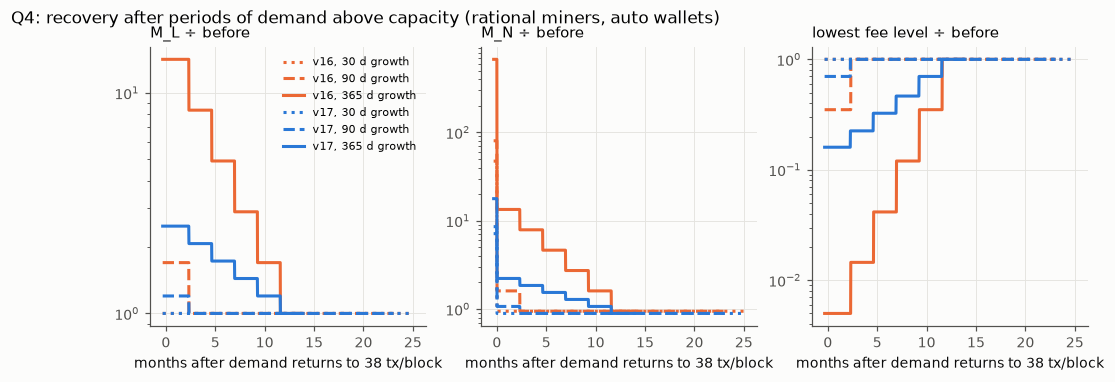
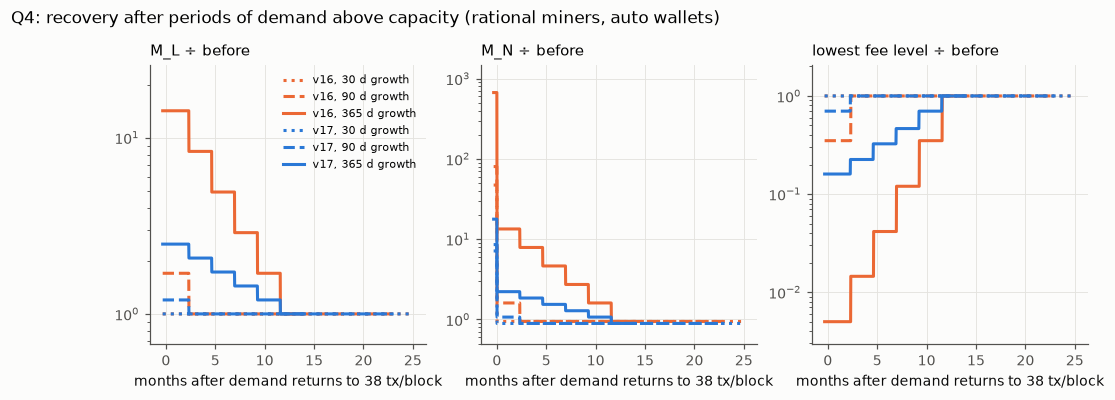
Figures: fix title collisions, axis crowding and clipped curves; key_numbers only on full runs

diff --git a/study/analysis/analyze.py b/study/analysis/analyze.py
@@ -11,7 +11,7 @@ import pandas as pd
 import matplotlib
 matplotlib.use("Agg")
 import matplotlib.pyplot as plt
-from matplotlib.ticker import NullLocator
+from matplotlib.ticker import FuncFormatter, LogLocator, NullLocator
 
 HERE = os.path.dirname(os.path.abspath(__file__))
 ROOT = os.path.dirname(HERE)
@@ -200,7 +200,7 @@ def q1():
             ax.axhline(y, color=INK2, lw=0.6, ls="-", alpha=0.4)
     axes[0].set_ylabel("bytes")
     axes[0].legend(ncol=2, fontsize=8)
-    fig.suptitle("Q1: growth with demand permanently above capacity (fill = miners ignore fees; auto/L0 = rational miners)", x=0.01, ha="left", fontsize=10)
+    fig.suptitle("Q1: growth with demand permanently above capacity (fill = miners ignore fees; auto/L0 = rational miners)", x=0.01, y=1.03, ha="left", fontsize=10)
     savefig(fig, "q1_growth.png")
 
     fig, ax = plt.subplots(figsize=(6.5, 3.6))
@@ -364,7 +364,7 @@ def q2():
     axes[0, 0].set_ylabel("mean wait of mined\nsurge txs, blocks")
     axes[1, 0].set_ylabel("share of surge txs\nmined within 1 day")
     axes[0, 0].legend(fontsize=8)
-    fig.suptitle(f"Q2: demand surges, wallets on auto priority, monerod pool limits ({ns} seeds)", x=0.01, ha="left")
+    fig.suptitle(f"Q2: demand surges, wallets on auto priority, monerod pool limits ({ns} seeds)", x=0.01, y=1.03, ha="left")
     savefig(fig, "q2_surge_wait.png")
 
     fig, axes = plt.subplots(1, 2, figsize=(10, 3.4), sharey=True)
@@ -399,7 +399,7 @@ def q2():
         ax.set_title(ttl, loc="left")
         ax.set_xlabel("days since surge start")
     axes[0].legend(fontsize=8)
-    fig.suptitle("Q2: a 20× surge lasting one day (shaded), auto priority, first seed", x=0.01, ha="left")
+    fig.suptitle("Q2: a 20× surge lasting one day (shaded), auto priority, first seed", x=0.01, y=1.03, ha="left")
     savefig(fig, "q2_surge_example.png")
 
 
@@ -502,10 +502,13 @@ def q3():
         axes[1].plot(ss.cum_spam_bytes / 1e9, ss.cum_spam_xmr, ls=ls, color=C[r], label=f"{r} {s}")
     axes[0].set_xscale("symlog", linthresh=10); axes[0].set_xlabel("XMR spent by the spammer"); axes[0].set_ylabel("M_L / initial M_L")
     axes[0].set_yscale("log"); axes[0].set_title("M_L raised vs XMR spent", loc="left")
+    for ax in axes:
+        lo, hi = ax.get_ylim()
+        ax.set_ylim(lo, hi * 1.6)
     axes[1].set_xscale("log"); axes[1].set_yscale("log"); axes[1].set_xlabel("GB of spam in the chain"); axes[1].set_ylabel("cumulative XMR spent")
     axes[1].set_title("Bloat: XMR spent vs GB added", loc="left")
     axes[0].legend(fontsize=7, ncol=1)
-    fig.suptitle("Q3: fee-paying spammer, 2-year campaigns (first seed)", x=0.01, ha="left")
+    fig.suptitle("Q3: fee-paying spammer, 2-year campaigns (first seed)", x=0.01, y=1.03, ha="left")
     savefig(fig, "q3_spam.png")
 
     m = load("q3d_miner")
@@ -565,8 +568,8 @@ def q3():
     axes[0].axvline(0.5, color=INK2, lw=0.8, alpha=0.5)
     axes[1].axvline(0.5, color=INK2, lw=0.8, alpha=0.5)
     axes[0].legend(fontsize=8)
-    axes[1].text(0.02, 0.02, "pad_max: v16 and v17 overlap (each padded block forfeits the 0.6 XMR reward)", transform=axes[1].transAxes, fontsize=7, color=INK2)
-    fig.suptitle(f"Q3d: malicious miner padding its blocks for one year ({nseeds(m)} seeds)", x=0.01, ha="left")
+    fig.text(0.01, -0.04, "pad_max: v16 and v17 overlap (each padded block forfeits the 0.6 XMR reward)", fontsize=7, color=INK2)
+    fig.suptitle(f"Q3d: malicious miner padding its blocks for one year ({nseeds(m)} seeds)", x=0.01, y=1.03, ha="left")
     savefig(fig, "q3_miner.png")
 
 
@@ -621,8 +624,10 @@ def q4():
             axes[2].plot(t[k], s.fee_low[k] / s.fee_low.iloc[0], ls=ls, color=C[r], label=lab)
     for ax, ttl in zip(axes, ["M_L ÷ before", "M_N ÷ before", "lowest fee level ÷ before"]):
         ax.set_yscale("log"); ax.set_title(ttl, loc="left"); ax.set_xlabel("months after demand returns to 38 tx/block")
+        lo, hi = ax.get_ylim()
+        ax.set_ylim(lo / 1.3, hi * 1.6)
     axes[0].legend(fontsize=7)
-    fig.suptitle("Q4: recovery after periods of demand above capacity (rational miners, auto wallets)", x=0.01, ha="left")
+    fig.suptitle("Q4: recovery after periods of demand above capacity (rational miners, auto wallets)", x=0.01, y=1.03, ha="left")
     savefig(fig, "q4_recovery.png")
 
 
@@ -737,8 +742,8 @@ def q5():
     axes[1].set_yscale("log"); axes[1].set_xlabel("demand ÷ Z_M"); axes[1].set_ylabel("p99 wait, blocks (0 → 0.1)"); axes[1].set_title("p99 wait, first 139 days after a demand step", loc="left")
     for ax in axes:
         log_x(ax, [0.5, 0.8, 1, 1.2, 2, 5])
-    axes[1].legend(fontsize=6, ncol=2)
-    fig.suptitle("Q5: fee market (solid v17, dashed v16; darker blue = higher level; orange = auto)", x=0.01, ha="left")
+    axes[1].legend(fontsize=6, ncol=1, loc="upper left", bbox_to_anchor=(1.02, 1.0))
+    fig.suptitle("Q5: fee market (solid v17, dashed v16; darker blue = higher level; orange = auto)", x=0.01, y=1.03, ha="left")
     savefig(fig, "q5_fee_market.png")
 
 
@@ -935,14 +940,18 @@ def q7():
                 axes[row, 1].plot(t, s.max_weight / 1e6, ls=ls, color=col, label=lab)
                 axes[row, 2].plot(t, s.fee_low, ls=ls, color=col, label=lab)
         axes[row, 0].set_ylabel("after fork: " + ("38 tx/block" if wal == "auto" else "demand > capacity"))
-        axes[row, 2].set_yscale("log")
-        axes[row, 1].set_yscale("log")
+        for ax in (axes[row, 1], axes[row, 2]):
+            ax.set_yscale("log")
+            ax.yaxis.set_minor_locator(LogLocator(base=10, subs=(2, 5)))
+            ax.yaxis.set_major_formatter(FuncFormatter(lambda v, _: f"{v:g}"))
+            ax.yaxis.set_minor_formatter(FuncFormatter(lambda v, _: f"{v:g}"))
+    fig.subplots_adjust(wspace=0.38)
     axes[0, 0].set_title("M_L (MB)", loc="left"); axes[0, 1].set_title("max block weight (MB)", loc="left"); axes[0, 2].set_title("lowest fee level (XMR/byte)", loc="left")
     for ax in axes[1]:
         ax.set_xlabel("thousand blocks after the fork")
     h, l = axes[0, 0].get_legend_handles_labels()
     fig.legend(h, l, loc="lower center", ncol=4, fontsize=7, bbox_to_anchor=(0.5, -0.06))
-    fig.suptitle("Q7: v16→v17 fork; solid = reference code (no rescale), dashed = spec transitional rule", x=0.01, ha="left")
+    fig.suptitle("Q7: v16→v17 fork; solid = reference code (no rescale), dashed = spec transitional rule", x=0.01, y=1.03, ha="left")
     savefig(fig, "q7_fork.png")
 
 
@@ -995,4 +1004,5 @@ if __name__ == "__main__":
     which = sys.argv[1:] or ["chains", "q1", "q2", "q3", "q4", "q5", "q6", "q7"]
     for w in which:
         globals()[w]()
-    keys()
+    if not sys.argv[1:]:  # key_numbers.md covers every question, so only a full run writes it
+        keys()
